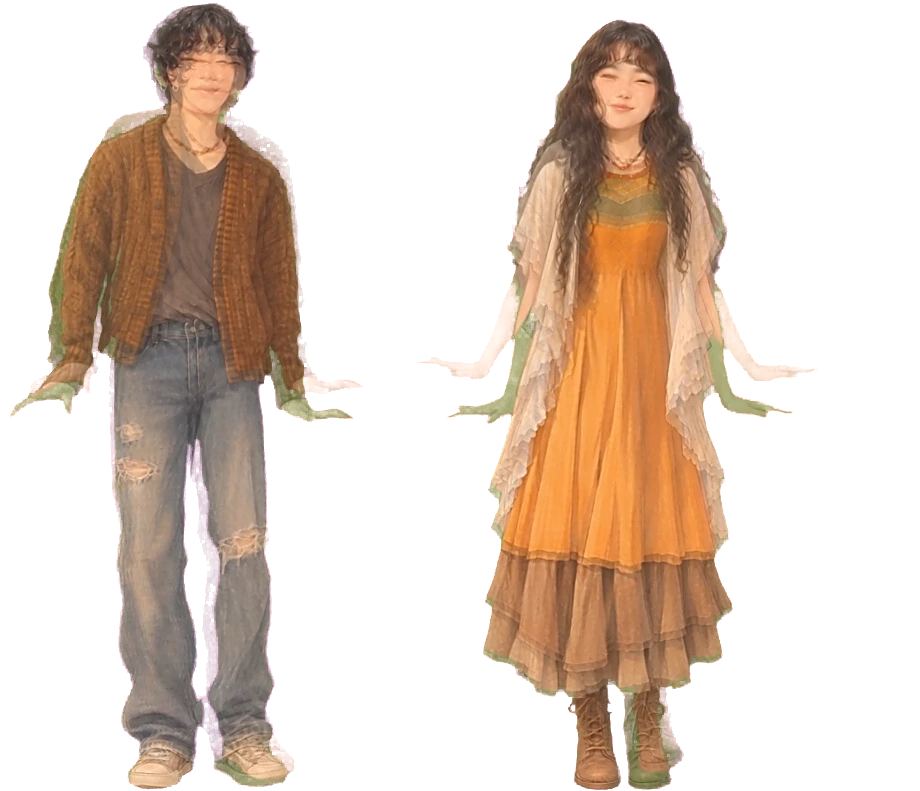
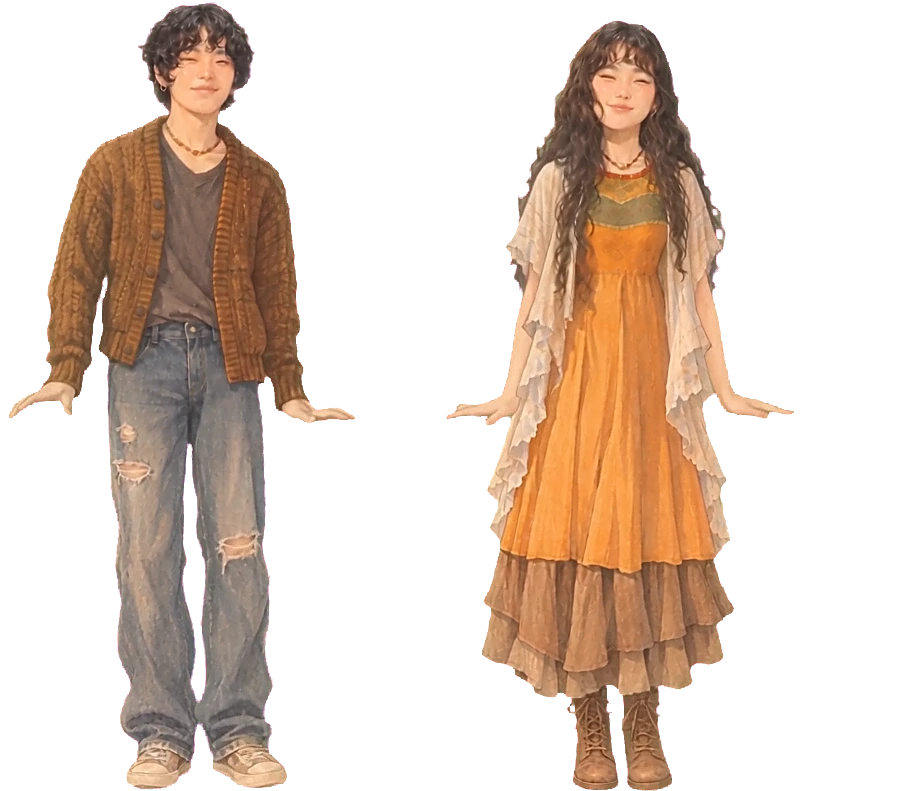
춤 앞뒤 되감기 반복, 모바일 무한로딩 수정, 하늘에서 내려오는 인트로, 썸네일 모드

diff --git a/index.html b/index.html
@@ -23,6 +23,7 @@
   #loader span { font-size: 13px; letter-spacing: .4em; color: #fff; text-shadow: 0 1px 8px rgba(40,70,100,.35); animation: loadPulse 1.6s ease-in-out infinite; }
   #loader b { font-weight: 400; margin-left: .6em; }
   #loader.done { opacity: 0; visibility: hidden; }
+  .thumb .title3d p, .thumb #hint { display: none; }
   @keyframes loadPulse { 50% { opacity: .45; } }
   nav { position: fixed; top: 0; left: 0; right: 0; z-index: 300000; display: flex; justify-content: space-between; align-items: center; padding: 22px 40px; font-size: 13px; letter-spacing: .15em; color: #fff; text-shadow: 0 1px 6px rgba(0,0,0,.2); }
   nav .logo { font-family: Georgia, serif; font-size: 22px; letter-spacing: 0; }
@@ -48,6 +49,7 @@
 </style>
 </head>
 <body>
+<script>addEventListener("error",()=>{const l=document.getElementById("loader");l&&l.classList.add("done")});setTimeout(()=>{const l=document.getElementById("loader");l&&l.classList.add("done")},12000);if(/[?&]thumb/.test(location.search))document.documentElement.classList.add("thumb");</script>
 <div id="loader"><span>LOADING<b id="loadPct"></b></span></div>
 <nav><div><span>STORY</span><span>MAP</span></div><div><span>SHOP</span><span>CONTACT</span><button id="sound" aria-label="소리 켜기" title="소리 켜기/끄기">
   <svg viewBox="0 0 24 24" width="22" height="22" fill="none" stroke="#fff" stroke-width="1.8" stroke-linecap="round" stroke-linejoin="round"><path d="M4 9h4l5-4v14l-5-4H4z" fill="#fff"/><g class="on"><path d="M16.5 8.5a5 5 0 0 1 0 7"/><path d="M19 6a8.5 8.5 0 0 1 0 12"/></g><g class="off"><path d="M17 9l5 6M22 9l-5 6"/></g></svg>
@@ -75,6 +77,8 @@
 
 
 <script>
+const INTRO = { t0: null };
+const THUMB = /[?&]thumb/.test(location.search); // 썸네일 캡처용: 인트로·안내 문구 없이, 제목은 하늘 위로
 // ===== 설정 =====
 const EYE = 230;      // 눈높이 (바닥이 눈보다 얼마나 아래 있는지)
 const DEPTH = 13000; // 물건 흩뿌리는 범위
@@ -163,7 +167,8 @@ place('<img id="dance" src="img/dance/d00.webp" alt="">', 0, -9000, 586, 504); /
 SHADOWS.push([-170 * KX, 9000 * KZ, 200, 'car'], [170 * KX, 9000 * KZ, 200, 'car']);
 { // 스톱모션: 장마다 아주 살짝 흔들림(손으로 옮긴 듯), 정수 픽셀만 (회전·소수점은 흐려 보임)
   const el = document.getElementById('dance'); let f = 0;
-  setInterval(() => { f = (f + 1) % DANCE.length; if (DANCE[f].complete) el.src = DANCE[f].src; el.style.transform = `translate(${Math.round((Math.random() - .5) * 3)}px, ${Math.round((Math.random() - .5) * 2)}px)`; }, 1000 / 8); }
+  const N = DANCE.length, seq = [...Array(N).keys(), ...Array.from({ length: N - 2 }, (_, i) => N - 2 - i)]; // 0→21→1 되감기
+  setInterval(() => { f = (f + 1) % seq.length; const fr = DANCE[seq[f]]; if (fr.complete) el.src = fr.src; el.style.transform = `translate(${Math.round((Math.random() - .5) * 3)}px, ${Math.round((Math.random() - .5) * 2)}px)`; }, 1000 / 8); }
 place(img('img/scarecrow.webp'), -1250, -5700, 160, 211);
 shrub(1, -1230, -5450, 260); // 허수아비 아랫부분을 살짝 가리는 관목 // 허수아비: 왼쪽 앞 들판
 tent('dome2', 1150, -11800, 1, 1.45); // 뒤로 간 만큼 키워서 원래 보이던 크기로 // 분홍 텐트는 무대 뒤로
@@ -217,14 +222,15 @@ const CLOUDS = [
 function drawGround() {
   // 하늘
   const hz = C.hy, z = C.zoom, ox = -C.yaw * W * .9;
+  const hs = hz - C.iOff * .72; // 하늘·구름은 덜 움직여서 깊이감
   const g = ctx.createLinearGradient(0, hz - H * 1.1, 0, hz);
   g.addColorStop(0, '#6fa7c4'); g.addColorStop(.6, '#b9d8e2'); g.addColorStop(1, '#e8e6d6');
   ctx.fillStyle = g; ctx.fillRect(0, 0, W, H); // 이미지 로딩 전 대신 보이는 하늘
   if (SKY.complete && SKY.naturalWidth) {
     // 수채화 하늘: 지평선에 아랫단을 맞추고 화면을 덮음, 좌우 호버 때 살짝 따라 움직임 (원본 가장자리 종이 여백 4%는 잘라냄)
     const cw = SKY.naturalWidth * .92, ch = SKY.naturalHeight * .92, sx = SKY.naturalWidth * .04, sy = SKY.naturalHeight * .04;
-    const sc = Math.max(W * 1.2 / cw, (hz + 60) / ch), dw = cw * sc, dh = ch * sc;
-    ctx.drawImage(SKY, sx, sy, cw, ch, (W - dw) / 2 + ox * .25, hz + 60 - dh, dw, dh);
+    const sc = Math.max(W * 1.2 / cw, (hs + 60) / ch), dw = cw * sc, dh = ch * sc;
+    ctx.drawImage(SKY, sx, sy, cw, ch, (W - dw) / 2 + ox * .25, hs + 60 - dh, dw, dh);
   }
   // 구름: 천천히 흘러가고, 좌우 호버 때 높이(거리)에 따라 조금씩 다르게 움직임
   const now = performance.now() / 1000;
@@ -232,7 +238,7 @@ function drawGround() {
     if (!c.img.complete || !c.img.naturalWidth) continue;
     const w = c.w * z, h = w * c.img.naturalHeight / c.img.naturalWidth, span = W + w * 2;
     const x = ((c.x * W + now * c.speed + ox * c.par) % span + span) % span - w;
-    ctx.drawImage(c.img, x, hz - c.y * z - h, w, h);
+    ctx.drawImage(c.img, x, hs - c.y * z - h, w, h);
   }
   // 모래 언덕 (지평선에 붙어서 같이 움직임)
   const dune = (amp, base, col, ph, par) => {
@@ -419,7 +425,10 @@ function render() {
   const hov = .25 + .75 * rise;                          // 스크롤 전엔 좌우 호버를 약하게
   const a = -cmx * 2 * ORBIT * hov;                       // 좌우: 초점 중심 회전
   const bob = Math.sin(walk / 70) * 3 * Math.min(1, cp * 20) * (1 - cp);
-  C = { P, walk, strafe: cmx * 2 * STRAFE * hov, cos: Math.cos(a), sin: Math.sin(a), zoom: H > W ? W / 560 : Math.min(H / 900, W / 1440), cx: W / 2, hy: H * (H > W ? .74 - .2 * rise : .88 - .46 * rise) + bob, eye, yaw: a, rise };
+  // 인트로: 로딩이 끝나면 하늘을 보던 카메라가 2.6초 동안 내려옴 (장면이 아래에서 올라옴)
+  const it0 = INTRO.t0 === null ? 0 : Math.min(1, (performance.now() - INTRO.t0) / 2600), ie = 1 - Math.pow(1 - it0, 3);
+  const iOff = THUMB ? 0 : (1 - ie) * H * 1.15;
+  C = { iOff, P, walk, strafe: cmx * 2 * STRAFE * hov, cos: Math.cos(a), sin: Math.sin(a), zoom: H > W ? W / 560 : Math.min(H / 900, W / 1440), cx: W / 2, hy: H * (H > W ? .74 - .2 * rise : .88 - .46 * rise) + bob + iOff, eye, yaw: a, rise };
   drawGround();
   drawGL();
   drawGrass();
@@ -429,7 +438,8 @@ function render() {
     if (show) {
       const [sx, sy, s] = proj(X, d, eye - (EYE - it.bottom)); // 땅 높이는 눈높이에 따라
       const L = sx - it.w / 2 * s; let T = sy - it.h * s - (it === titleItem && H > W ? H * .05 : 0); // 세로 화면이면 제목을 살짝 위로
-      if (it === titleItem) T += Math.max(0, 58 - T) * (1 - Math.min(1, cp / .15)); // 시작 화면에서 제목 윗부분이 화면 위로 잘리지 않게 (스크롤하면 원래대로)
+      if (it === titleItem) T += Math.max(0, 58 - T) * (1 - Math.min(1, cp / .15));
+      if (it === titleItem && THUMB) T = H * .07; // 시작 화면에서 제목 윗부분이 화면 위로 잘리지 않게 (스크롤하면 원래대로)
       show = L < W && L + it.w * s > 0 && T < H && s < 40 && (it.h > 400 || it.h * s < H * .75); // 눈앞에서 너무 커진 풀·꽃은 숨김 (무대 같은 큰 건 제외)
       if (it === titleItem) { // 제목은 다가오며 커지면 흐려지다 사라짐 (너무 크게 키웠다가 돌아올 때 이미지가 덜 그려지는 문제 방지)
         const k = s / C.zoom, op = Math.min(1, Math.max(0, (2.8 - k) / 1));
@@ -441,9 +451,9 @@ function render() {
     }
     if (show !== it.shown) { it.d.style.visibility = show ? '' : 'hidden'; it.shown = show; } // display:none 대신 visibility → 다시 보일 때 이미지 새로 안 불러옴
   }
-  hint.style.opacity = cp > .03 ? 0 : 1;
+  hint.style.opacity = cp > .03 || it0 < .95 ? 0 : 1; // 인트로 끝난 뒤에 안내 표시
 }
-function frame() { render(); requestAnimationFrame(frame); }
+function frame() { try { render(); } catch (e) { if (!frame.err) { frame.err = 1; console.error(e); } } requestAnimationFrame(frame); }
 frame();
 
 // ===== 소리: 악뮤 '소문의 낙원' 공식 뮤직비디오 (유튜브) — 스피커를 누르면 재생/멈춤 =====
@@ -466,10 +476,10 @@ soundBtn.addEventListener('click', () => {
   const imgs = [...document.images, ...DANCE, SKY, GRASS_IMG, MOTTLE_IMG, ...ROCKS.map(r => r.img), ...CLOUDS.map(c => c.img)];
   let done = 0; const pct = document.getElementById('loadPct');
   const tick = () => { done++; pct.textContent = Math.round(done / imgs.length * 100) + '%'; };
-  const wait = im => (im.complete && im.naturalWidth ? Promise.resolve() : new Promise(r => { im.addEventListener('load', r, { once: true }); im.addEventListener('error', r, { once: true }); })).then(() => im.decode ? im.decode().catch(() => {}) : 0).then(tick);
-  const finish = () => document.getElementById('loader').classList.add('done');
-  Promise.all(imgs.map(wait)).then(() => requestAnimationFrame(() => requestAnimationFrame(finish)));
-  setTimeout(finish, 15000); // 너무 오래 걸리면 그냥 열기
+  const wait = im => (im.complete && im.naturalWidth ? Promise.resolve() : new Promise(r => { im.addEventListener('load', r, { once: true }); im.addEventListener('error', r, { once: true }); })).then(() => im.decode ? Promise.race([im.decode().catch(() => {}), new Promise(r => setTimeout(r, 1200))]) : 0).then(tick); // 모바일에서 decode()가 안 끝나는 경우가 있어 1.2초 제한
+  const finish = () => { const l = document.getElementById('loader'); if (l.classList.contains('done')) return; l.classList.add('done'); INTRO.t0 = performance.now() + 250; };
+  Promise.all(imgs.map(wait)).then(() => setTimeout(finish, 120)); // rAF는 백그라운드·저전력에서 멈출 수 있어 setTimeout 사용
+  setTimeout(finish, 9000); // 너무 오래 걸리면 그냥 열기
 })();
 </script>
 </body>
